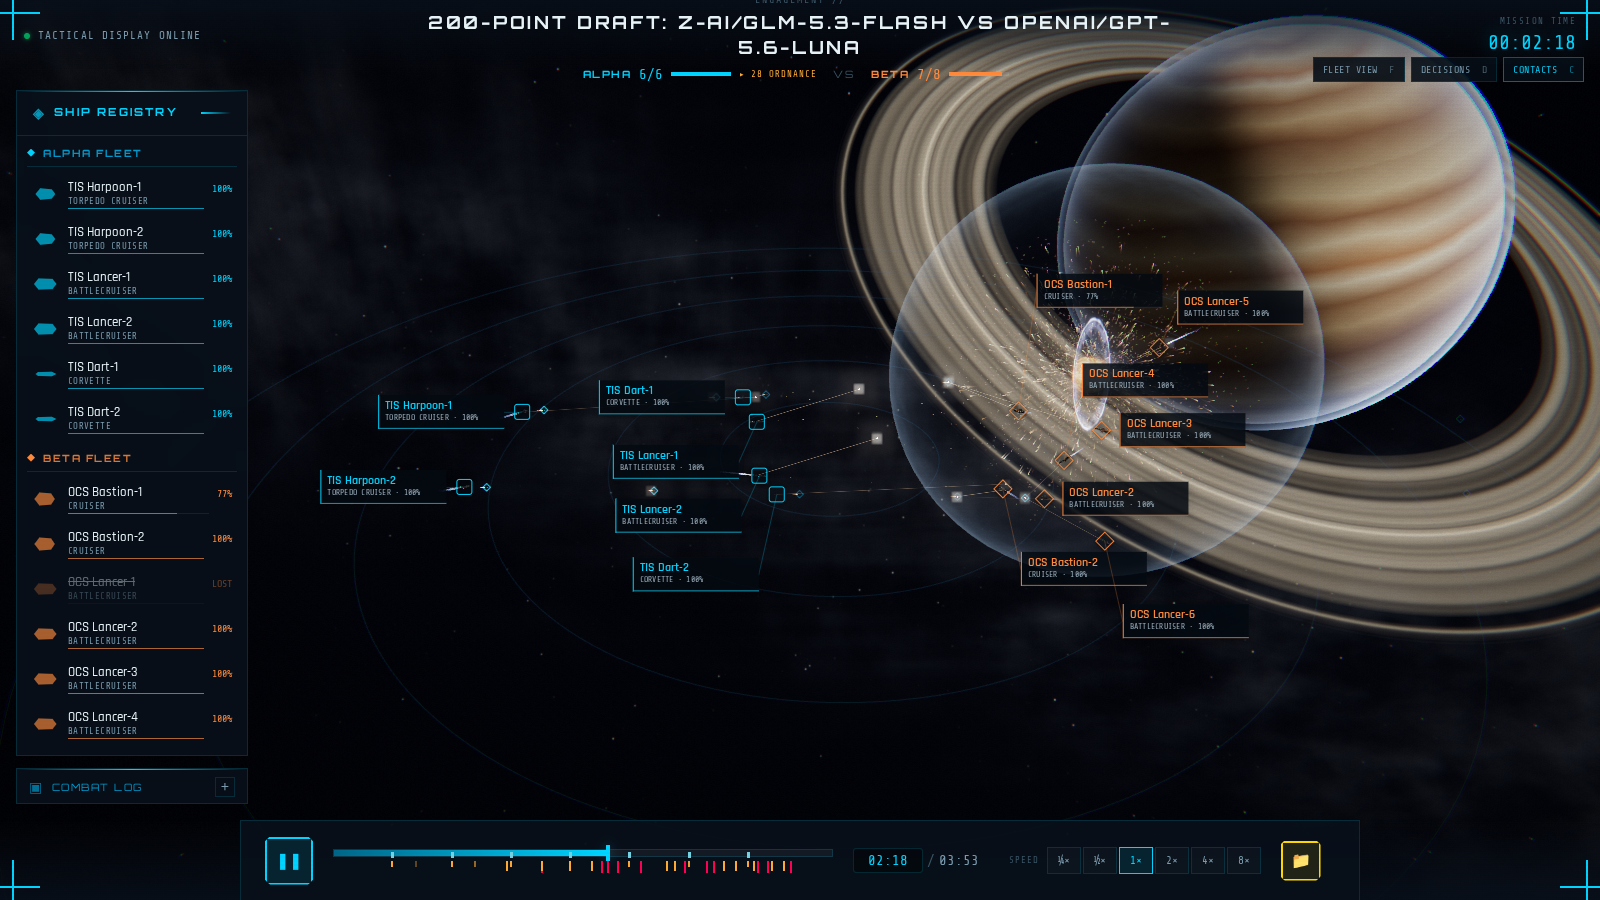
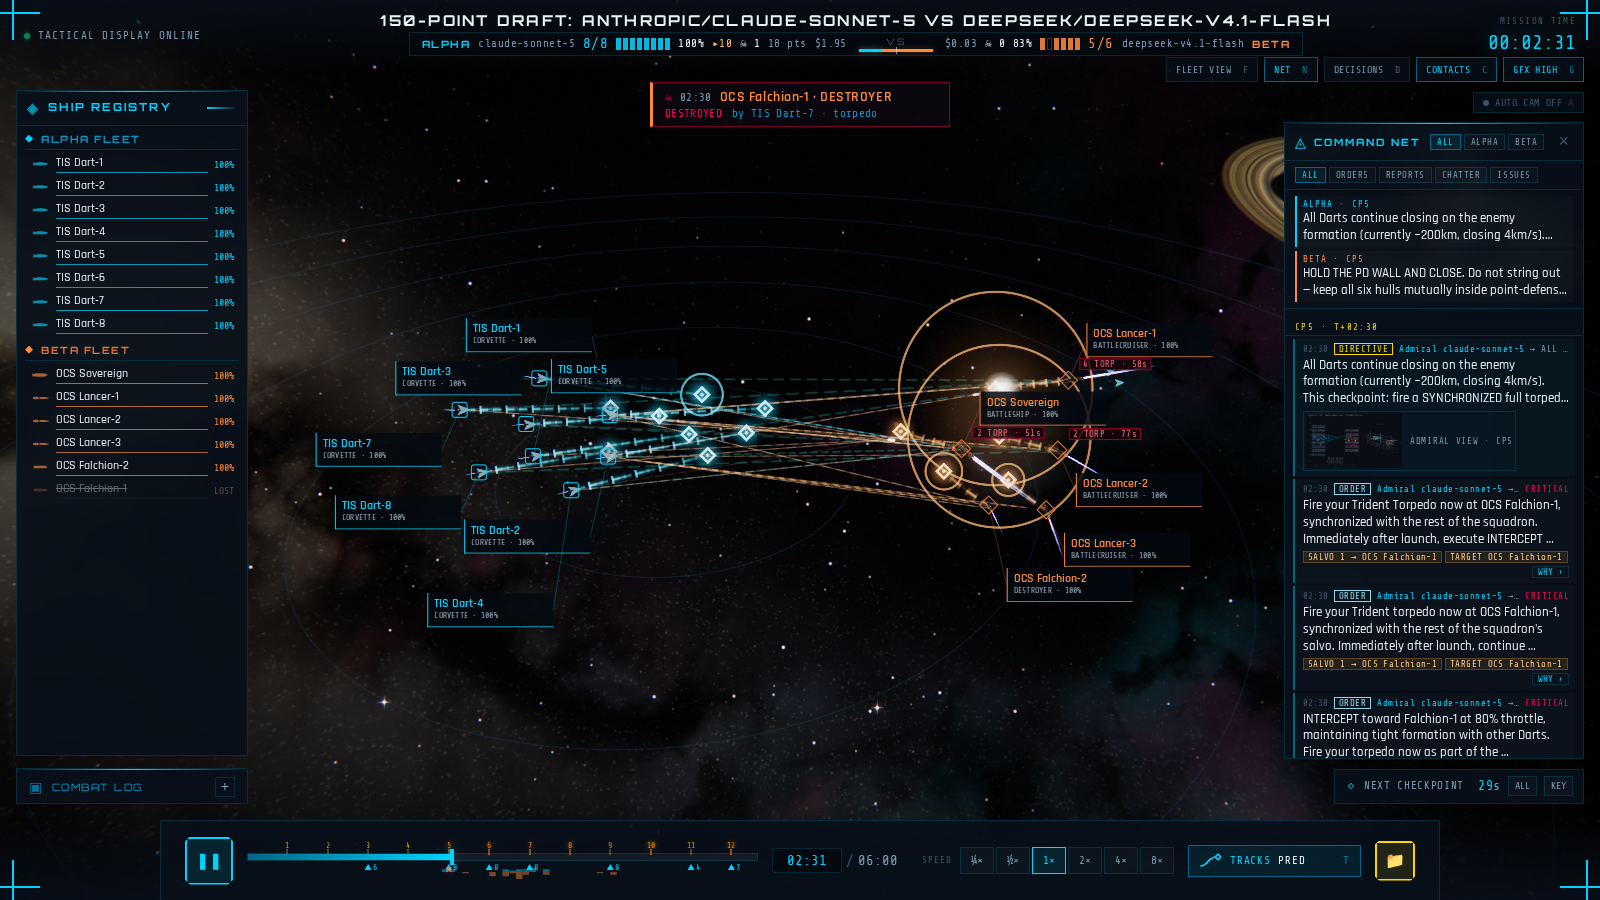
README screenshots for pass 4: new hulls, lineup, live wire, command net, kills
Ten unretouched 1600x900 viewer captures (--gfx high): dreadnought hero
shot, every hull class in both liveries, the Sonnet-DeepSeek fleet battle
with full HUD, a torpedo salvo into a PD screen, a battleship reactor
breach, a dying hulk, a 2x close crop of a captain's DEVIATE report in the
command net, the refreshed intent-consequence panel, the live
deliberation card and the draft splash. torpedo-cruiser.png and the old
reactor-breach.png are gone; docs/images/readme/README.md lists recording,
time, camera and the exact capture command for each image, with the
helper JS the commands pass through --eval.

Claude-Session: https://claude.ai/code/session_01M52LTiMxucvJrwxjimhma9

diff --git a/docs/images/readme/capture-helpers.js b/docs/images/readme/capture-helpers.js
@@ -1,0 +1,84 @@
+// Capture helpers for the README screenshots (docs/images/readme/README.md).
+// Passed to scripts/viewer_snapshot.py as --eval "$(cat docs/images/readme/capture-helpers.js) ...call...";
+// they only drive the viewer's own API (window.visualizer) - no pixels are edited.
+
+/** Hull lineup: every class, alpha column facing the beta column, biggest hull on top,
+ *  flank-on to a long lens. Ships are spawned with the viewer's own createShip/updateShip. */
+function readmeLineup({ az = 20, el = 6, gap = 1.2, mid = 4, margin = 1.1, thrust = 0.3, fov = 12 } = {}) {
+  const s = window.visualizer.scene, T = s.camera.position.constructor;
+  window.visualizer.trackControl?.set('off');
+  const CLASSES = ['dreadnought_siege', 'dreadnought', 'battleship', 'battlecruiser', 'cruiser_torpedo',
+                   'cruiser', 'destroyer', 'frigate', 'corvette'];
+  // local bounds of each hull (y = height, z = length) from its rendered meshes
+  const ext = {};
+  for (const t of CLASSES) {
+    const id = `__lineup_probe_${t}`;
+    const g = s.ships.get(id) || s.createShip(id, 'alpha', t);
+    s.updateShip(id, { position: [5e6, 0, 0], forward: [0, 0, 1], thrust: 0, hull: 100, radiatorsExtended: false });
+    g.updateMatrixWorld(true);
+    const inv = g.matrixWorld.clone().invert();
+    const mn = [1e9, 1e9, 1e9], mx = [-1e9, -1e9, -1e9];
+    g.traverseVisible(o => {
+      if (!o.isMesh || !o.geometry) return;
+      if (!o.geometry.boundingBox) o.geometry.computeBoundingBox();
+      const bb = o.geometry.boundingBox.clone().applyMatrix4(o.matrixWorld).applyMatrix4(inv);
+      ['x', 'y', 'z'].forEach((k, i) => { mn[i] = Math.min(mn[i], bb.min[k]); mx[i] = Math.max(mx[i], bb.max[k]); });
+    });
+    ext[t] = { h: mx[1] - mn[1], ymax: mx[1], zmax: mx[2], L: mx[2] - mn[2] };
+  }
+  // camera-aligned frame: c toward the camera, r screen right, u screen up
+  const a = az * Math.PI / 180, e = el * Math.PI / 180;
+  const c = new T(Math.cos(e) * Math.sin(a), Math.sin(e), Math.cos(e) * Math.cos(a)).normalize();
+  const r = new T().crossVectors(new T(0, 1, 0), c).normalize();
+  const u = new T().crossVectors(c, r).normalize();
+  const C = new T(9000, 4000, -6000);                       // far from any battle
+  const put = (id, faction, type, x, y, fwd) => {
+    const ship = s.ships.get(id) || s.createShip(id, faction, type);
+    const p = C.clone().addScaledVector(r, x).addScaledVector(u, y);
+    ship.up.copy(u);
+    ship.userData.smoothThrust = thrust;
+    s.updateShip(id, { position: [p.x * 1000, p.y * 1000, p.z * 1000], forward: [fwd.x, fwd.y, fwd.z],
+      thrust, hull: 100, radiatorsExtended: false });
+    ship.userData.smoothThrust = thrust;
+  };
+  const H = CLASSES.reduce((sum, t) => sum + ext[t].h, 0) + gap * (CLASSES.length - 1);
+  const W = 2 * Math.max(...CLASSES.map(t => ext[t].L)) + mid;
+  let y = H / 2;
+  for (const t of CLASSES) {
+    const yc = y - ext[t].ymax;
+    put(`lineup_alpha_${t}`, 'alpha', t, -mid / 2 - ext[t].zmax, yc, r);            // noses meet in the middle
+    put(`lineup_beta_${t}`, 'beta', t, mid / 2 + ext[t].zmax, yc, r.clone().negate());
+    y -= ext[t].h + gap;
+  }
+  const halfV = Math.max(H / 2, W / 2 / s.camera.aspect) * margin;
+  s.camera.fov = fov;
+  s.camera.updateProjectionMatrix();
+  s.camera.position.copy(C.clone().addScaledVector(c, halfV / Math.tan(fov * Math.PI / 360)));
+  s.controls.target.copy(C);
+  s.controls.update();
+  return { W, H };
+}
+
+/** Command net: apply a filter, render it now, expand the DEVIATE reports and scroll the
+ *  report whose text contains `match` to the top of the list (as a viewer scrolling would). */
+function readmeCommsTo(match, faction = 'all', group = 'reports', pad = 26) {
+  const v = window.visualizer;
+  v.commsFeed.setFilter(faction, group);
+  v.commsFeed.update(v.timeController.currentTime);
+  const rows = [...document.querySelectorAll('#commsFeed .comms-row.status-deviate')];
+  rows.forEach(el => el.classList.add('expanded'));
+  const row = rows.find(el => el.textContent.includes(match)) || rows[0];
+  if (!row) return 'no DEVIATE rows';
+  let box = row.parentElement;
+  while (box && !(box.scrollHeight > box.clientHeight + 2 && /(auto|scroll)/.test(getComputedStyle(box).overflowY))) box = box.parentElement;
+  if (box) box.scrollTop += row.getBoundingClientRect().top - box.getBoundingClientRect().top - pad;
+  return rows.length;
+}
+
+/** Decisions panel: scroll the section whose title starts with `title` (e.g. '03') to the top. */
+function readmeDecisionTo(title, pad = 6) {
+  const body = window.visualizer.decisions.body;
+  const h = [...body.querySelectorAll('h3')].find(el => el.textContent.trim().startsWith(title));
+  if (h) body.scrollTop += h.getBoundingClientRect().top - body.getBoundingClientRect().top - pad;
+  return !!h;
+}

diff --git a/docs/images/readme/README.md b/docs/images/readme/README.md
@@ -1,39 +1,110 @@
 # README screenshots
 
-Captured from the Three.js replay viewer on September 6, 2026 with headless
-Chromium through Playwright, at 1600 × 900. These are application screenshots;
-ship states, ordnance, damage, and decision text come from the archived battles.
-The two cinematic frames hide the HUD. Images are unretouched PNG captures.
+Captured from the Three.js viewer on October 25, 2026 with headless Chromium
+(Playwright, SwiftShader WebGL) at 1600 × 900 with `--gfx high`. These are
+application screenshots: ship states, ordnance, damage, HUD text and commander
+messages come from the recorded battles. Nothing is painted in or retouched;
+the only post-processing is lossless PNG optimisation (and JPEG quality 95,
+4:4:4, for `reactor-breach.jpg`, whose particle field does not fit a PNG under
+1.5 MB). Framing choices are camera placement, lens (field of view), panel
+filters/scrolling, and for `command-net.png` a 2× device-scale crop.
 
 | File | Recording | Battle time | View |
 | --- | --- | ---: | --- |
-| `torpedo-cruiser.png` | GLM–Luna 200-point draft | 100s | `alpha_1`; distance 1.4 hull lengths, azimuth −20°, elevation 25°; HUD hidden |
-| `fleet-battle.png` | GLM–Luna 200-point draft | 138s | Fleet framing, contact labels, standard HUD |
-| `reactor-breach.png` | GLM–Luna 200-point draft | 137.5s | `beta_3`; distance 6 hull lengths, azimuth 35°, elevation 18°; HUD hidden |
-| `intent-consequence.png` | Qwen–GPT-OSS | 184.8s | `alpha_2` decision `e152`; camera on `beta_1`, distance 2 hull lengths, azimuth 35°, elevation 18°; Decisions panel scrolled to ship execution and observed consequences |
+| `hero.png` | Showcase s0 (200 pt, dreadnoughts vs torpedo swarm) | 96.5s | `alpha_1` (dreadnought) at full thrust, PD beams on inbound torpedoes; 4.6 hull lengths, azimuth −36°, elevation 9°, 20° lens; HUD hidden |
+| `hull-lineup.png` | `rcs_showroom.json` as an empty stage | 5s | Showroom: every hull class spawned with the viewer's `createShip`, alpha column facing beta; top to bottom siege dreadnought, dreadnought, battleship, battlecruiser, torpedo cruiser, cruiser, destroyer, frigate, corvette; 12° lens; HUD hidden |
+| `fleet-battle.png` | Claude Sonnet 5 vs DeepSeek V4.1 Flash, 150 pt | 151s | Fleet view one second after the first kill; scoreboard, kill toast, command net, registry, timeline lanes; track legend collapsed |
+| `torpedo-salvo.png` | Showcase s7 (200 pt, battleships vs torpedo swarm) | 203.3s | Two battleships' PD fans on an inbound torpedo, kinetic strike on `alpha_1`; explicit camera; HUD hidden |
+| `reactor-breach.jpg` | Showcase s7 | 205.7s | `alpha_1` battleship reactor breach 1.7 s after the kill, the sister ship's plume crossing the fireball; 5.5 hull lengths, azimuth −20°, elevation 20°; HUD hidden |
+| `dying-hulk.png` | Showcase s7 | 114s | `alpha_7` destroyer as a dying hulk (killed at 110 s, reactor goes at 118 s): molten cracks, venting, sputtering torch; 1.35 hull lengths, azimuth 20°, elevation 15°; HUD hidden |
+| `command-net.png` | DeepSeek V4.1 Flash mirror, 150 pt (pass-4 engine) | 216s | OCS Lancer-2 and its captain's DEVIATE report to the admiral (merge-floor reasoning, compliance chip), both admirals' standing directives; REPORTS filter; 1200 × 660 viewport at device scale 2, cropped to the right 800 × 450 CSS px |
+| `intent-consequence.png` | Qwen–GPT-OSS | 184.8s | `alpha_2` decision `e152` pinned; camera on the crippled `beta_1` (reactor in 14 s), 2 hull lengths, azimuth 35°, elevation 18°; Decisions panel scrolled to ship execution and observed consequences |
+| `live-deliberation.png` | Claude Sonnet 5 vs DeepSeek V4.1 Flash, replayed through the live endpoints | CP5 (150s) | `?live=1&decisions=1`: live bar, COMMAND DELIBERATION card (both sides' progress, spend), alpha admiral's salvo directive, the salvo one second from impact |
+| `draft-splash.png` | Same, live endpoints | T+4s | Draft splash after both sealed picks: rosters, formations and each admiral's reasoning |
 
-Recordings:
+## Recordings
 
-- [GLM–Luna](../../../data/recordings/glm_luna_200pt_live_20260906/battle_glm_5_3_flash_vs_gpt_5_6_luna_20260906_140449.json)
+- Claude Sonnet 5 vs DeepSeek V4.1 Flash: `sonnet5_vs_dsv41flash_150pt_20260926.json` (live run of September 26, 2026)
+- DeepSeek V4.1 Flash mirror: `p4_new_flash_mirror_150pt.json` (pass-4 engine with captain reports)
 - [Qwen–GPT-OSS](../../../data/recordings/intent_qwen_gptoss.json)
+- Showcase s0 / s7: free heuristic draft battles on the pass-4 engine, regenerated
+  deterministically (identical trace and events run to run):
 
-To capture similar cinematic frames, stage the recordings as described in the
-[root README](../../../README.md#watch-a-replay), then use the snapshot helper:
+  ```bash
+  uv run python scripts/run_draft_battle.py --auto-draft --no-admirals --trace \
+    --seed 0 --budget 200 --time-limit 420    # -> stage as showcase_s0_200pt.json
+  uv run python scripts/run_draft_battle.py --auto-draft --no-admirals --trace \
+    --seed 7 --budget 200 --time-limit 420    # -> stage as showcase_s7_200pt.json
+  ```
+
+Stage recordings in `visualizer/public/recordings/` as described in the
+[root README](../../../README.md#watch-a-replay).
+
+## Capture commands
+
+Each replay image is one `scripts/viewer_snapshot.py` command (add `--port` if
+your dev server is not on 5173). `capture-helpers.js` holds the JavaScript the
+commands pass through `--eval`: it only calls the viewer's own API
+(`window.visualizer`).
 
 ```bash
 uv run playwright install chromium
-uv run python scripts/viewer_snapshot.py \
-  --recording glm_luna_200pt_live_20260906.json \
-  --time 100 --focus alpha_1 --dist 1.4 --az -20 --el 25 \
-  --hide-ui --width 1600 --height 900 --out /tmp/torpedo-cruiser.png
+SNAP="uv run python scripts/viewer_snapshot.py --gfx high --width 1600 --height 900"
+H=docs/images/readme/capture-helpers.js
+TRACKS_OFF="window.visualizer.trackControl.set('off')"
 
-uv run python scripts/viewer_snapshot.py \
-  --recording glm_luna_200pt_live_20260906.json \
-  --time 137.5 --focus beta_3 --dist 6 --az 35 --el 18 \
-  --hide-ui --width 1600 --height 900 --out /tmp/reactor-breach.png
+# hero.png
+$SNAP --recording showcase_s0_200pt.json --time 96.5 --focus alpha_1 --dist 4.6 --az -36 --el 9 --hide-ui \
+  --eval "(() => { $TRACKS_OFF; const c = window.visualizer.scene.camera; c.fov = 20; c.updateProjectionMatrix(); })()" \
+  --out hero.png
+
+# hull-lineup.png
+$SNAP --recording rcs_showroom.json --time 5 --hide-ui --eval "$(cat $H); readmeLineup()" --out hull-lineup.png
+
+# fleet-battle.png
+$SNAP --recording sonnet5_vs_dsv41flash_150pt_20260926.json --time 151 \
+  --eval "window.visualizer.showFleetView(); window.visualizer.trackHud.setLegend(false)" --out fleet-battle.png
+
+# torpedo-salvo.png
+$SNAP --recording showcase_s7_200pt.json --time 203.3 \
+  --camera=-100.27,-14.827,34.354 --target=-112.369,-24.971,1.112 --hide-ui --eval "$TRACKS_OFF" --out torpedo-salvo.png
+
+# reactor-breach.jpg (captured as PNG, then JPEG q95 4:4:4)
+$SNAP --recording showcase_s7_200pt.json --time 205.7 --focus alpha_1 --dist 5.5 --az -20 --el 20 \
+  --hide-ui --eval "$TRACKS_OFF" --out reactor-breach.png
+
+# dying-hulk.png
+$SNAP --recording showcase_s7_200pt.json --time 114 --focus alpha_7 --dist 1.35 --az 20 --el 15 \
+  --hide-ui --eval "$TRACKS_OFF" --out dying-hulk.png
+
+# command-net.png: 1200x660 CSS at device scale 2, right-hand 800x450 CSS crop
+uv run python scripts/viewer_snapshot.py --gfx high --recording p4_new_flash_mirror_150pt.json \
+  --time 216 --focus beta_2 --dist 2.6 --az 165 --el 12 --width 1200 --height 660 --scale 2 \
+  --clip 392,117,800,450 --eval "$(cat $H); $TRACKS_OFF; readmeCommsTo('Lancer-2')" --out command-net.png
+
+# intent-consequence.png (the ship is deselected after load so its off-screen
+# marker does not stack on the fleet marker)
+$SNAP --recording intent_qwen_gptoss.json --query "ship=alpha_2&decisions=1&decision=e152&t=184.8" \
+  --time 184.8 --focus beta_1 --dist 2 --az 35 --el 18 \
+  --eval "$(cat $H); window.visualizer.deselectShip(); readmeDecisionTo('03')" --out intent-consequence.png
 ```
 
-The interface captures use the same Playwright browser setup and
-`window.visualizer`. The decision view opens
-`?recording=/recordings/intent_qwen_gptoss.json&decisions=1&ship=alpha_2&decision=e152&t=184.8`.
-Camera placement and panel scrolling change the view, not the recorded events.
+The live images replay the Sonnet–DeepSeek recording through the live
+endpoints with `scripts/fake_live_server.py` (40 s synthetic draft: alpha
+commits at 60 %, beta at 90 %; each checkpoint held 14 s for deliberation):
+
+```bash
+uv run python scripts/fake_live_server.py \
+  visualizer/public/recordings/sonnet5_vs_dsv41flash_150pt_20260926.json \
+  --port 8825 --speed 6 --draft-seconds 40 --pause-seconds 14
+```
+
+A 1600 × 900 Playwright page then opens
+`/?live=1&live_base=http://127.0.0.1:8825/live&gfx=high` (plus `&decisions=1`
+for `live-deliberation.png`), with `window.visualizer.slowFrameOk = true` once
+the battle starts. `draft-splash.png` is taken about 2.5 s after the battle
+starts (the splash still up, both fleets committed); for
+`live-deliberation.png` the splash is dismissed, playback set to 4×, the track
+legend collapsed, and the frame taken 1.5 s after the deliberation card for
+checkpoint 5 appears. The live pacing and deliberation progress come from the
+fake server's replay of the recording, not from a running battle.
